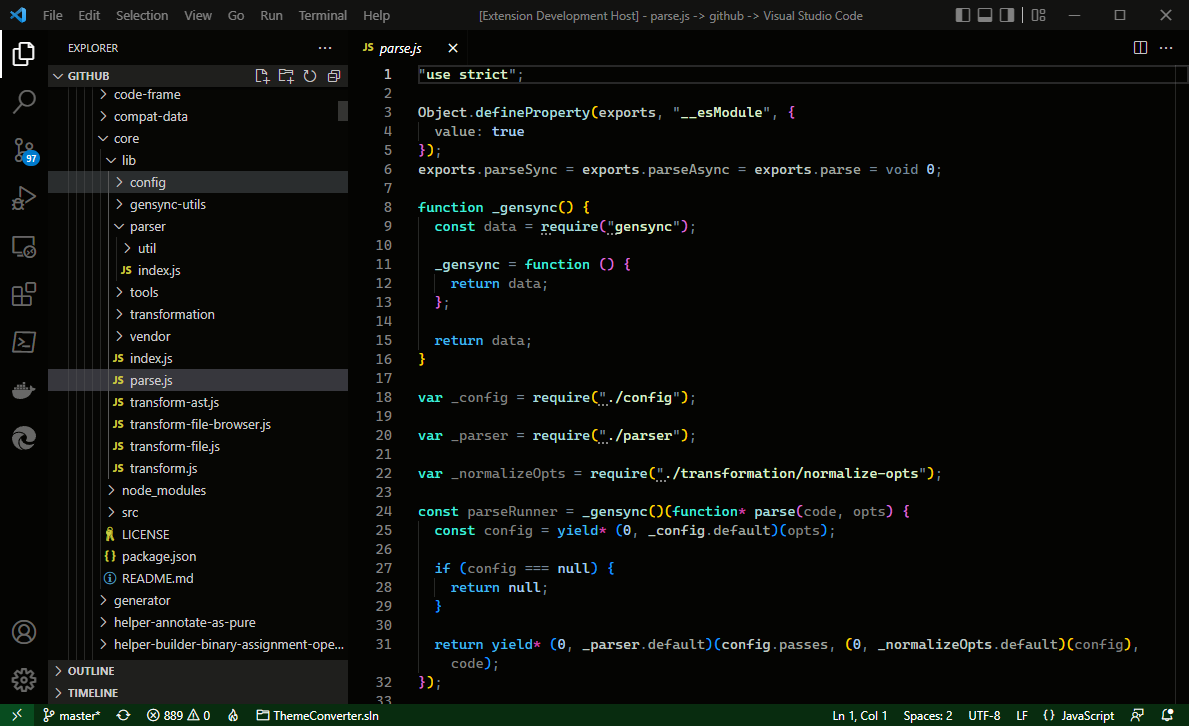
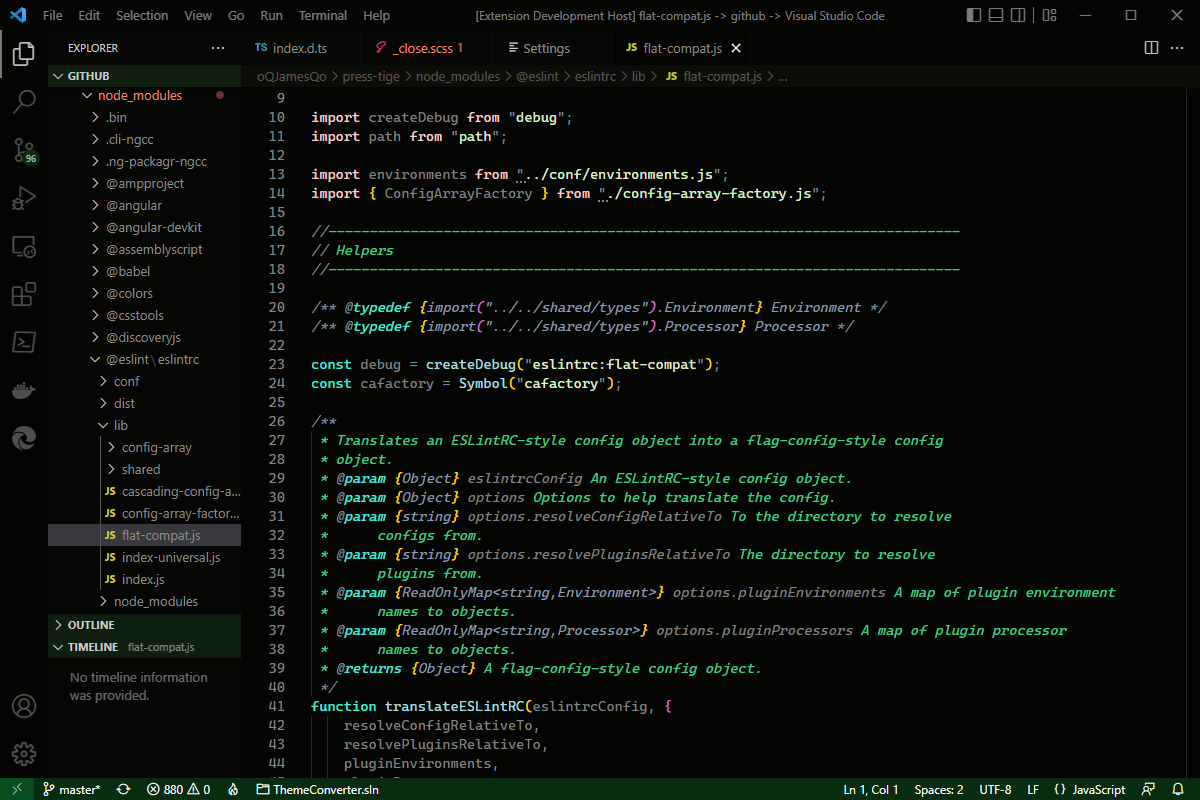
More colors for the renamed deep dark theme

diff --git a/README.md b/README.md
@@ -1,10 +1,11 @@
-# Darklee Theme
-A darker theme that is light on blues. 
+# Darklee Theme Set
+A set of dark themes that are light on blues. 
 <br><br>
-## Theme Screenshot
+## Deep Dark
 ![JS files](./images/js-screen.png)<br><br>
 ![TS files](./images/ts-screen.png)<br><br>
 ![SCSS files](./images/scss-screen.png)<br><br>
+## Pride
 ![TS files Pride Theme](./images/ts-screen-pride.png)<br><br>
 ## License
 [MIT](./LICENSE)

diff --git a/CHANGELOG.md b/CHANGELOG.md
@@ -22,3 +22,6 @@
 
 ## [0.0.7] - 19 June, 2022
 ### Added pride theme based on the main theme on Juneteenth. 
+
+## [0.0.8] - 15 Aug, 2022
+### More color settiings for the Deep Dark theme in the set. 
